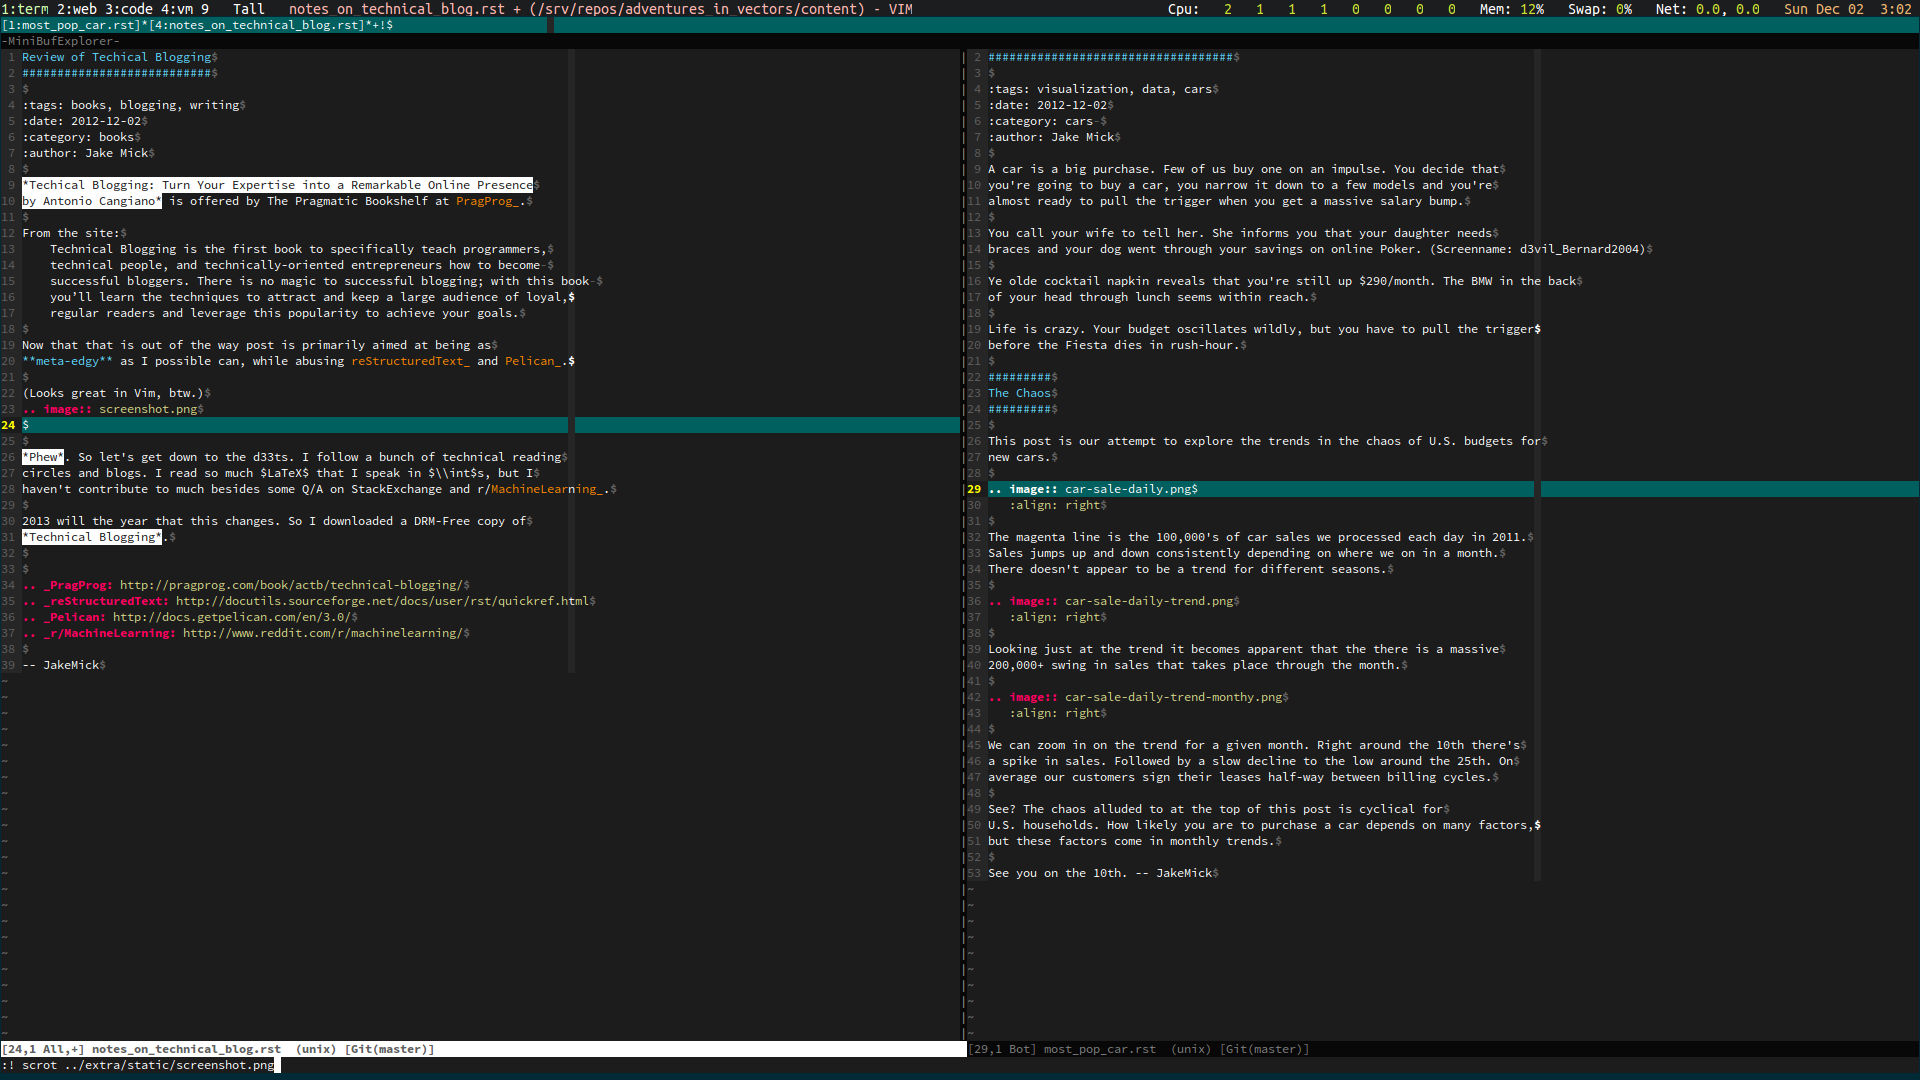
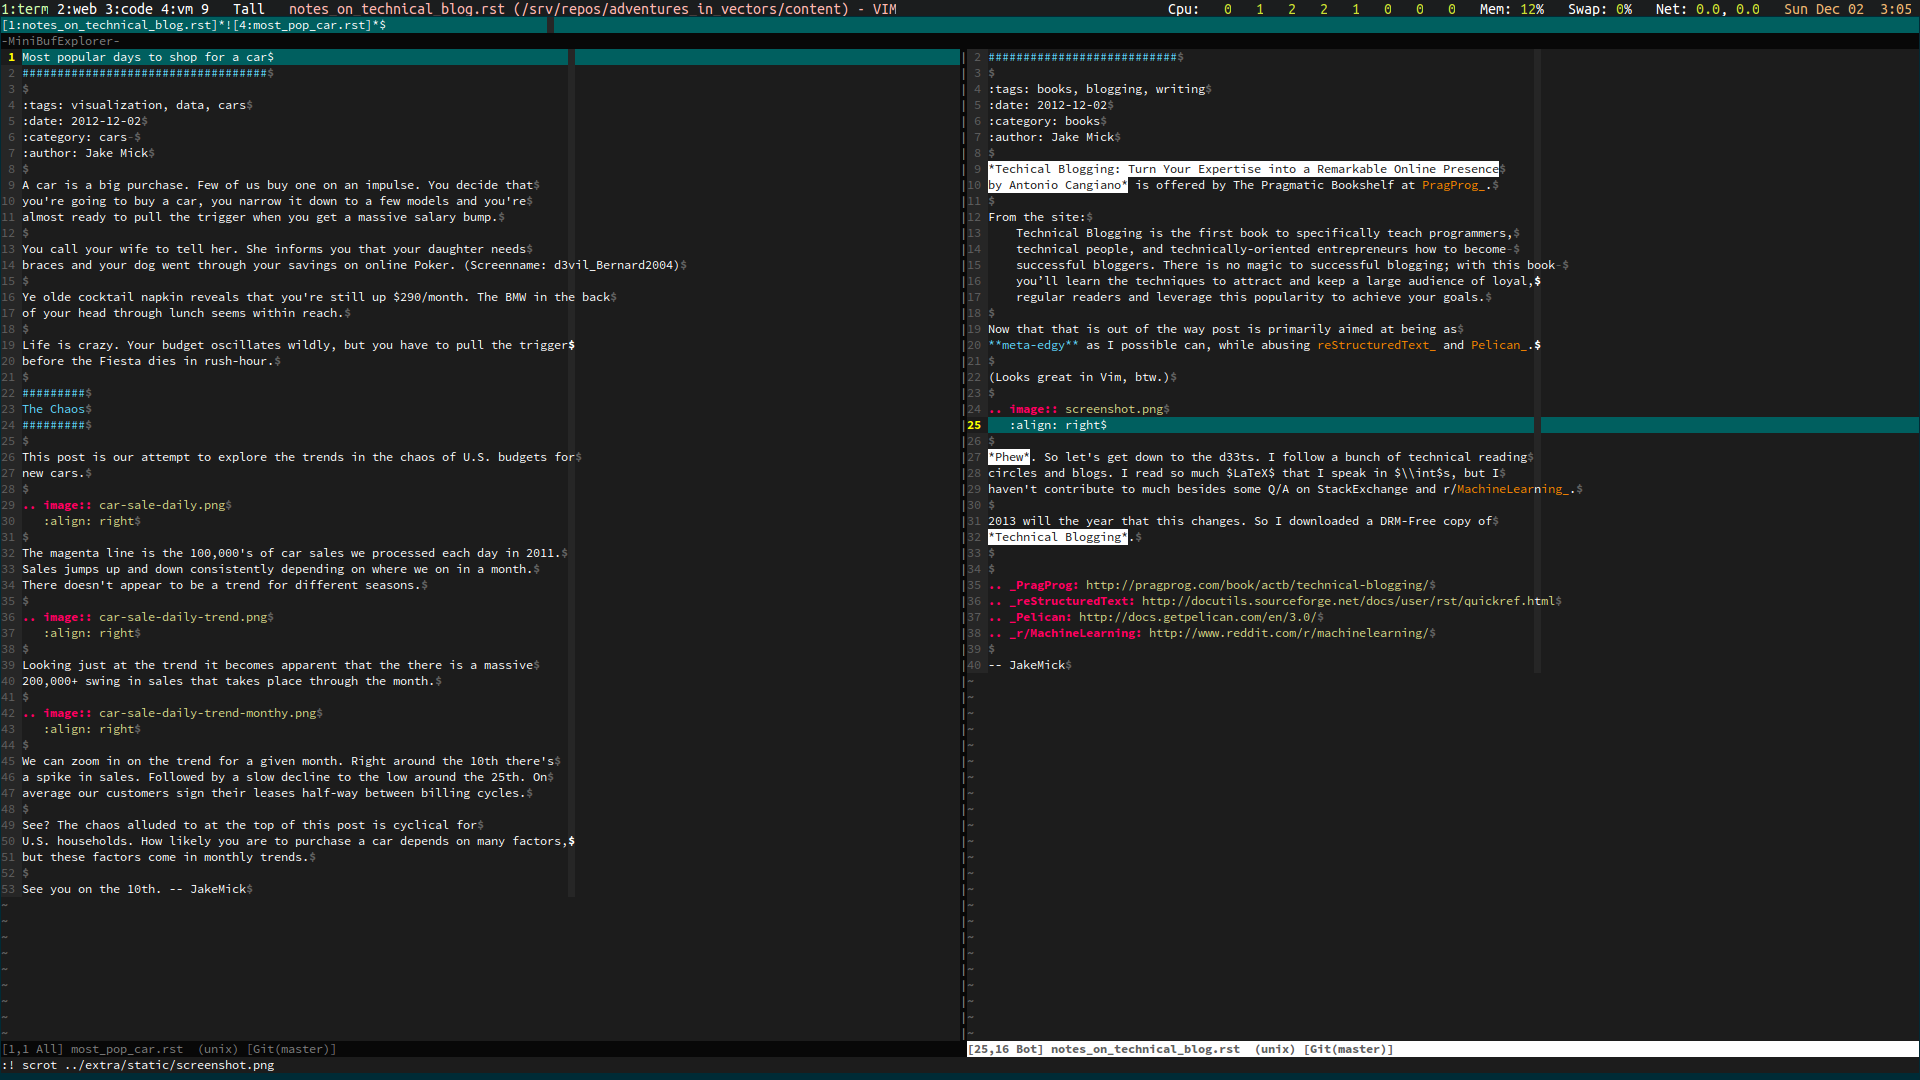
align and space for screenshot

diff --git a/category/books.html b/category/books.html
@@ -85,8 +85,8 @@ regular readers and leverage this popularity to achieve your goals.</dd>
 </dl>
 <p>Now that that is out of the way post is primarily aimed at being as
 <strong>meta-edgy</strong> as I possible can, while abusing <a class="reference external" href="http://docutils.sourceforge.net/docs/user/rst/quickref.html">reStructuredText</a> and <a class="reference external" href="http://docs.getpelican.com/en/3.0/">Pelican</a>.</p>
-<p>(Looks great in Vim, btw.)
-.. image:: screenshot.png</p>
+<p>(Looks great in Vim, btw.)</p>
+<img alt="screenshot.png" class="align-right" src="../static/screenshot.png" />
 <p><em>Phew</em>. So let's get down to the d33ts. I follow a bunch of technical reading
 circles and blogs. I read so much $LaTeX$ that I speak in $\int$s, but I
 haven't contribute to much besides some Q/A on StackExchange and r/<a href="#id1"><span class="problematic" id="id2">MachineLearning_</span></a>.</p>
@@ -96,7 +96,7 @@ haven't contribute to much besides some Q/A on StackExchange and r/<a href="#id1
 <div class="system-messages section">
 <h2>Docutils System Messages</h2>
 <div class="system-message" id="id1">
-<p class="system-message-title">System Message: ERROR/3 (<tt class="docutils">/srv/repos/adventures_in_vectors/content/notes_on_technical_blog.rst</tt>, line 25); <em><a href="#id2">backlink</a></em></p>
+<p class="system-message-title">System Message: ERROR/3 (<tt class="docutils">/srv/repos/adventures_in_vectors/content/notes_on_technical_blog.rst</tt>, line 27); <em><a href="#id2">backlink</a></em></p>
 Unknown target name: &quot;machinelearning&quot;.</div>
 </div>
 

diff --git a/tag/blogging.html b/tag/blogging.html
@@ -85,8 +85,8 @@ regular readers and leverage this popularity to achieve your goals.</dd>
 </dl>
 <p>Now that that is out of the way post is primarily aimed at being as
 <strong>meta-edgy</strong> as I possible can, while abusing <a class="reference external" href="http://docutils.sourceforge.net/docs/user/rst/quickref.html">reStructuredText</a> and <a class="reference external" href="http://docs.getpelican.com/en/3.0/">Pelican</a>.</p>
-<p>(Looks great in Vim, btw.)
-.. image:: screenshot.png</p>
+<p>(Looks great in Vim, btw.)</p>
+<img alt="screenshot.png" class="align-right" src="../static/screenshot.png" />
 <p><em>Phew</em>. So let's get down to the d33ts. I follow a bunch of technical reading
 circles and blogs. I read so much $LaTeX$ that I speak in $\int$s, but I
 haven't contribute to much besides some Q/A on StackExchange and r/<a href="#id1"><span class="problematic" id="id2">MachineLearning_</span></a>.</p>
@@ -96,7 +96,7 @@ haven't contribute to much besides some Q/A on StackExchange and r/<a href="#id1
 <div class="system-messages section">
 <h2>Docutils System Messages</h2>
 <div class="system-message" id="id1">
-<p class="system-message-title">System Message: ERROR/3 (<tt class="docutils">/srv/repos/adventures_in_vectors/content/notes_on_technical_blog.rst</tt>, line 25); <em><a href="#id2">backlink</a></em></p>
+<p class="system-message-title">System Message: ERROR/3 (<tt class="docutils">/srv/repos/adventures_in_vectors/content/notes_on_technical_blog.rst</tt>, line 27); <em><a href="#id2">backlink</a></em></p>
 Unknown target name: &quot;machinelearning&quot;.</div>
 </div>
 

diff --git a/tag/books.html b/tag/books.html
@@ -85,8 +85,8 @@ regular readers and leverage this popularity to achieve your goals.</dd>
 </dl>
 <p>Now that that is out of the way post is primarily aimed at being as
 <strong>meta-edgy</strong> as I possible can, while abusing <a class="reference external" href="http://docutils.sourceforge.net/docs/user/rst/quickref.html">reStructuredText</a> and <a class="reference external" href="http://docs.getpelican.com/en/3.0/">Pelican</a>.</p>
-<p>(Looks great in Vim, btw.)
-.. image:: screenshot.png</p>
+<p>(Looks great in Vim, btw.)</p>
+<img alt="screenshot.png" class="align-right" src="../static/screenshot.png" />
 <p><em>Phew</em>. So let's get down to the d33ts. I follow a bunch of technical reading
 circles and blogs. I read so much $LaTeX$ that I speak in $\int$s, but I
 haven't contribute to much besides some Q/A on StackExchange and r/<a href="#id1"><span class="problematic" id="id2">MachineLearning_</span></a>.</p>
@@ -96,7 +96,7 @@ haven't contribute to much besides some Q/A on StackExchange and r/<a href="#id1
 <div class="system-messages section">
 <h2>Docutils System Messages</h2>
 <div class="system-message" id="id1">
-<p class="system-message-title">System Message: ERROR/3 (<tt class="docutils">/srv/repos/adventures_in_vectors/content/notes_on_technical_blog.rst</tt>, line 25); <em><a href="#id2">backlink</a></em></p>
+<p class="system-message-title">System Message: ERROR/3 (<tt class="docutils">/srv/repos/adventures_in_vectors/content/notes_on_technical_blog.rst</tt>, line 27); <em><a href="#id2">backlink</a></em></p>
 Unknown target name: &quot;machinelearning&quot;.</div>
 </div>
 

diff --git a/tag/writing.html b/tag/writing.html
@@ -85,8 +85,8 @@ regular readers and leverage this popularity to achieve your goals.</dd>
 </dl>
 <p>Now that that is out of the way post is primarily aimed at being as
 <strong>meta-edgy</strong> as I possible can, while abusing <a class="reference external" href="http://docutils.sourceforge.net/docs/user/rst/quickref.html">reStructuredText</a> and <a class="reference external" href="http://docs.getpelican.com/en/3.0/">Pelican</a>.</p>
-<p>(Looks great in Vim, btw.)
-.. image:: screenshot.png</p>
+<p>(Looks great in Vim, btw.)</p>
+<img alt="screenshot.png" class="align-right" src="../static/screenshot.png" />
 <p><em>Phew</em>. So let's get down to the d33ts. I follow a bunch of technical reading
 circles and blogs. I read so much $LaTeX$ that I speak in $\int$s, but I
 haven't contribute to much besides some Q/A on StackExchange and r/<a href="#id1"><span class="problematic" id="id2">MachineLearning_</span></a>.</p>
@@ -96,7 +96,7 @@ haven't contribute to much besides some Q/A on StackExchange and r/<a href="#id1
 <div class="system-messages section">
 <h2>Docutils System Messages</h2>
 <div class="system-message" id="id1">
-<p class="system-message-title">System Message: ERROR/3 (<tt class="docutils">/srv/repos/adventures_in_vectors/content/notes_on_technical_blog.rst</tt>, line 25); <em><a href="#id2">backlink</a></em></p>
+<p class="system-message-title">System Message: ERROR/3 (<tt class="docutils">/srv/repos/adventures_in_vectors/content/notes_on_technical_blog.rst</tt>, line 27); <em><a href="#id2">backlink</a></em></p>
 Unknown target name: &quot;machinelearning&quot;.</div>
 </div>
 

diff --git a/review-of-techical-blogging.html b/review-of-techical-blogging.html
@@ -88,8 +88,8 @@ regular readers and leverage this popularity to achieve your goals.</dd>
 </dl>
 <p>Now that that is out of the way post is primarily aimed at being as
 <strong>meta-edgy</strong> as I possible can, while abusing <a class="reference external" href="http://docutils.sourceforge.net/docs/user/rst/quickref.html">reStructuredText</a> and <a class="reference external" href="http://docs.getpelican.com/en/3.0/">Pelican</a>.</p>
-<p>(Looks great in Vim, btw.)
-.. image:: screenshot.png</p>
+<p>(Looks great in Vim, btw.)</p>
+<img alt="screenshot.png" class="align-right" src="static/screenshot.png" />
 <p><em>Phew</em>. So let's get down to the d33ts. I follow a bunch of technical reading
 circles and blogs. I read so much $LaTeX$ that I speak in $\int$s, but I
 haven't contribute to much besides some Q/A on StackExchange and r/<a href="#id1"><span class="problematic" id="id2">MachineLearning_</span></a>.</p>
@@ -99,7 +99,7 @@ haven't contribute to much besides some Q/A on StackExchange and r/<a href="#id1
 <div class="system-messages section">
 <h2>Docutils System Messages</h2>
 <div class="system-message" id="id1">
-<p class="system-message-title">System Message: ERROR/3 (<tt class="docutils">/srv/repos/adventures_in_vectors/content/notes_on_technical_blog.rst</tt>, line 25); <em><a href="#id2">backlink</a></em></p>
+<p class="system-message-title">System Message: ERROR/3 (<tt class="docutils">/srv/repos/adventures_in_vectors/content/notes_on_technical_blog.rst</tt>, line 27); <em><a href="#id2">backlink</a></em></p>
 Unknown target name: &quot;machinelearning&quot;.</div>
 </div>
 
